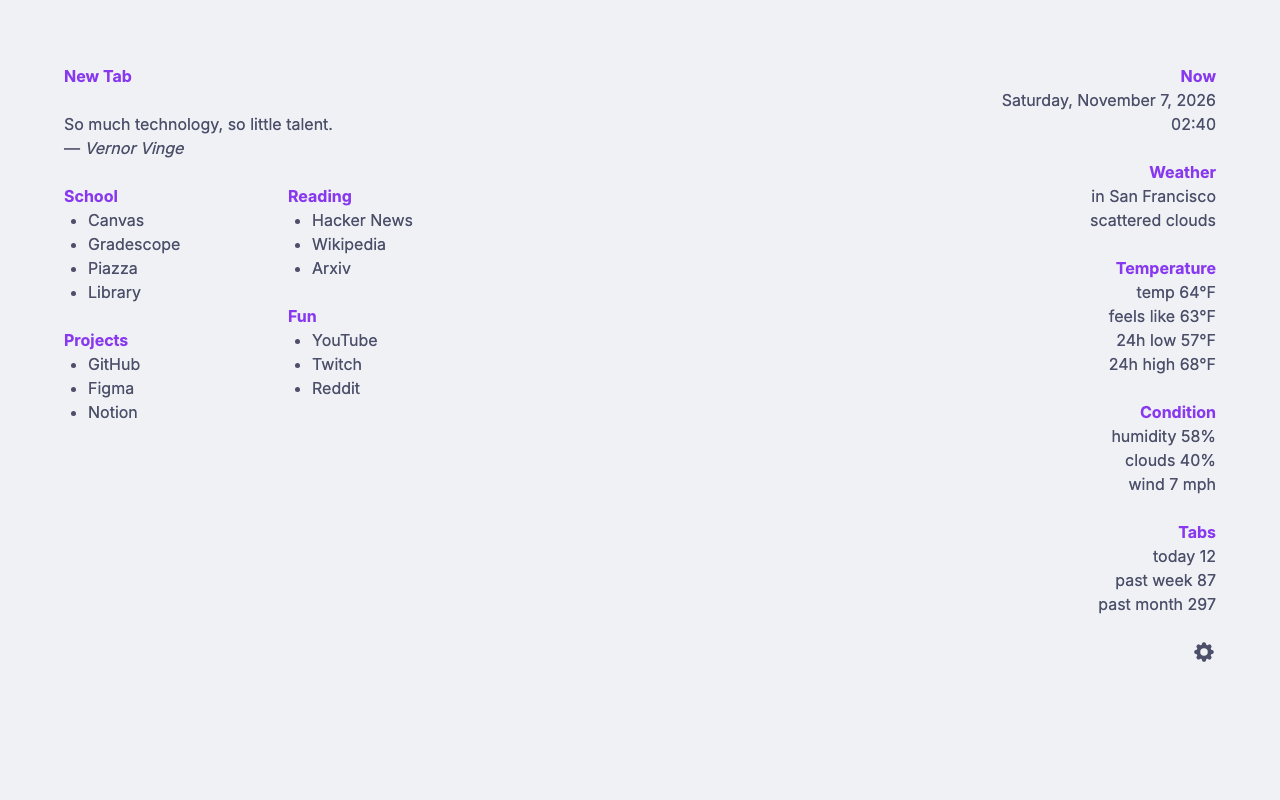
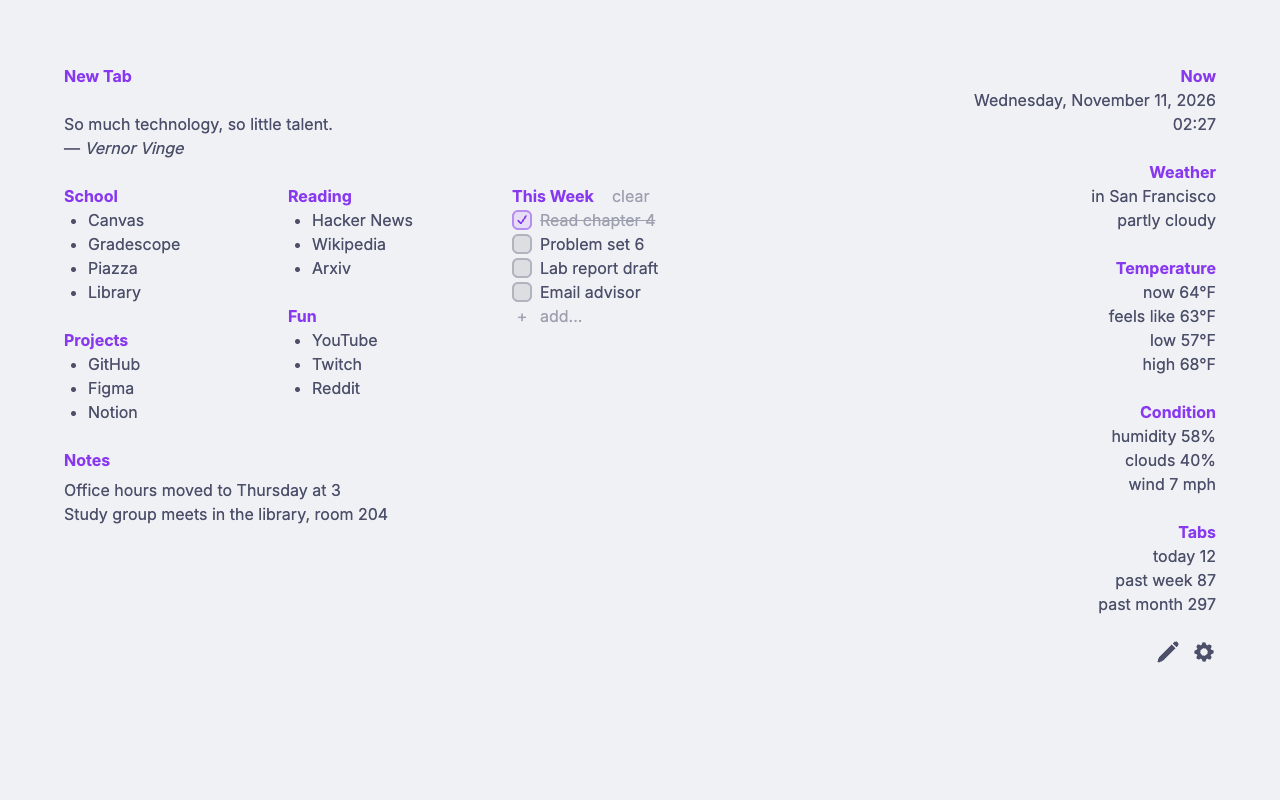
add CHANGELOG.md and edit README.md and screenshots

diff --git a/CHANGELOG.md b/CHANGELOG.md
@@ -1,0 +1,60 @@
+# Changelog
+
+## 1.7
+
+### Added
+
+- You can add todo lists next to your link sections. Type to create a todo. Click a todo to edit it. Drag a todo to move it. You can remove the completed todos, and you can undo this removal.
+- The bottom of the page has a notes area. You can rename its title.
+- You can edit links on the page itself. To open the link editor, click the pencil button or use settings. Drag sections and links to arrange them or to move them between columns. The maximum is four columns. You can also use the arrow keys on a drag handle. You can undo a deletion.
+- Weather location has three options: approximate (from your IP address), precise (from your browser), or a city that you search for.
+- A locale setting controls the date and time format of the clock.
+- You can download your settings as a file and upload the file again. The clipboard export is still available.
+- Changes now sync across all open new tab pages.
+- Animations play when you change themes and when you open or close the link editor.
+
+### Changed
+
+- Weather data now comes from [Open-Meteo](https://open-meteo.com/). [BigDataCloud](https://www.bigdatacloud.com/) supplies the name of your location. Weather no longer needs an OpenWeather API key or location access. If you set a key before this update, your location setting starts as precise.
+- Weather shows the low and high for today instead of for the next 24 hours.
+- Temperature units and wind speed units are now separate settings. The page can show wind speed in m/s.
+- The font size setting scales the full page, which includes spacing and controls.
+- Settings are easier to scan. Toggles show a highlight when they are on. Either-or choices are dropdowns.
+- You arrange link columns by dragging instead of with a column count. The extension divides existing links into columns automatically.
+- Number fields keep their values in the permitted range.
+- Long quotes wrap more evenly.
+- New installations start with two link sections and an empty todo list. The extension does not change existing links.
+- Light themes use light scrollbars and dropdown menus.
+- Discord status does not refresh while the tab is in the background.
+
+## 1.6
+
+Released November 7, 2026.
+
+### Added
+
+- Color themes are available. These include Catppuccin, Dracula, Nord, Tokyo Night, GitHub Dark and Ayu Dark. An OKLCH color picker lets you set custom colors.
+- The tab icon matches your theme.
+- Tab stats show how many tabs you opened today, in the past week and in the past month.
+- Quote tags let you select which types of quotes you see.
+- You can divide link sections across multiple columns.
+- You can undo the deletion of a link or section.
+- Weather has compact and detailed layouts, and imperial or metric units.
+- Toggles show or hide the quote, clock, weather, tab stats and Discord status. If you hide Discord, the extension keeps your user ID.
+- Exported settings now include the font and font size.
+
+### Changed
+
+- The extension has a new default theme and icon. The previous colors are available as the Classic theme.
+- The extension now contains the quotes and fonts and does not download them. As a result, the page loads faster and works offline.
+- The quote stays the same when you refresh the page or go back to it.
+- Links work if you do not type `https://`.
+- The settings button is now on the right side of the page.
+- The page rounds temperatures to whole degrees.
+- Messages are clearer for weather errors and for the import, export and reset of settings.
+- Settings are easier to use with a keyboard or screen reader. Focus styles are visible.
+
+### Fixed
+
+- Layout and spacing are now correct on small screens.
+- The "move down" buttons for links had the label "move up". They now have the correct label.

diff --git a/README.md b/README.md
@@ -2,28 +2,42 @@
 
 A minimalistic, configurable new tab page. Works with Chromium-based browsers and Firefox.
 
-- [Chrome Extension](https://chrome.google.com/webstore/detail/simple-new-tab/knjgndjhindbbphlfnaagilhcjciehaf)
-- [Firefox Add-on](https://addons.mozilla.org/en-US/firefox/addon/minimalistic-new-tab/)
+Install it from the [Chrome Web Store](https://chrome.google.com/webstore/detail/simple-new-tab/knjgndjhindbbphlfnaagilhcjciehaf) or [Firefox Add-ons](https://addons.mozilla.org/en-US/firefox/addon/minimalistic-new-tab/).
 
-![Screenshot](docs/main.png)
+![The new tab page with a quote, links, a todo list, notes, the clock, weather, tab stats and Discord status](docs/main.png)
 
 ## Features
 
-- Minimalistic design.
-- Easy to configure.
-  ![Screenshot](docs/settings.png)
+- Customizable colors! Use a preset theme or craft your own.
 - Organize your links into sections and columns.
-  ![Screenshot](docs/links.png)
-- Use a preset theme or craft your own.
-  ![Screenshot](docs/colors.png)
+- Stay on top of your todos and notes.
 - A new quote every time you open a new tab.
 - Clock with the current local time.
-- Weather information in your area, powered by [Open-Meteo](https://open-meteo.com/) and [BigDataCloud](https://www.bigdatacloud.com/).
+- Weather information in your area or a city you choose, powered by [Open-Meteo](https://open-meteo.com/) and [BigDataCloud](https://www.bigdatacloud.com/).
 - Stats on how many tabs you've opened.
 - Your Discord status at a glance.
 - Show or hide anything you don't need.
 - Import and export your settings.
-  ![Screenshot](docs/import-export.png)
+
+See the [changelog](CHANGELOG.md) changes in recent versions.
+
+## Screenshots
+
+### Settings
+
+![The settings panel with tweaks, fonts, color themes and clock options](docs/settings.png)
+
+### Link editor
+
+![The link editor with draggable sections, links and todos in columns](docs/links.png)
+
+### Colors
+
+![The theme list and the OKLCH color picker](docs/colors.png)
+
+### Import and export
+
+![Weather, Discord, and save and load settings](docs/import-export.png)
 
 ## Build
 
